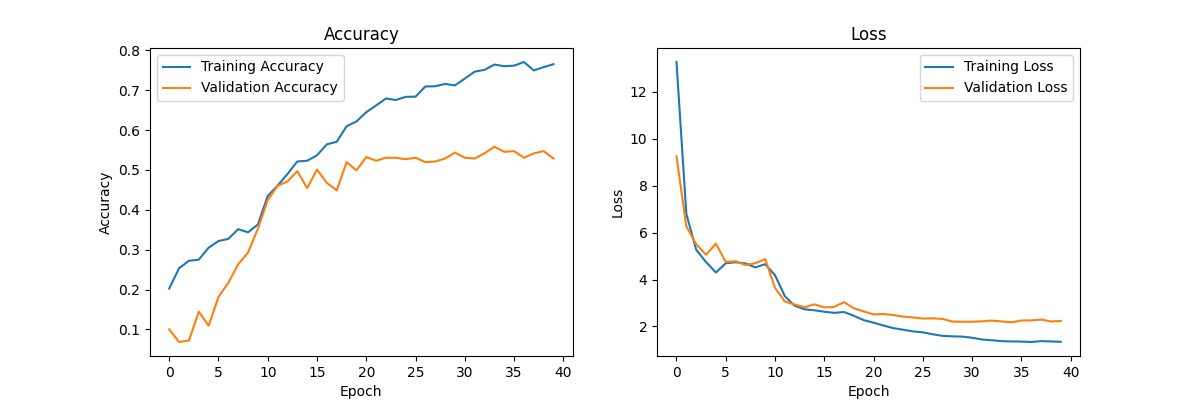
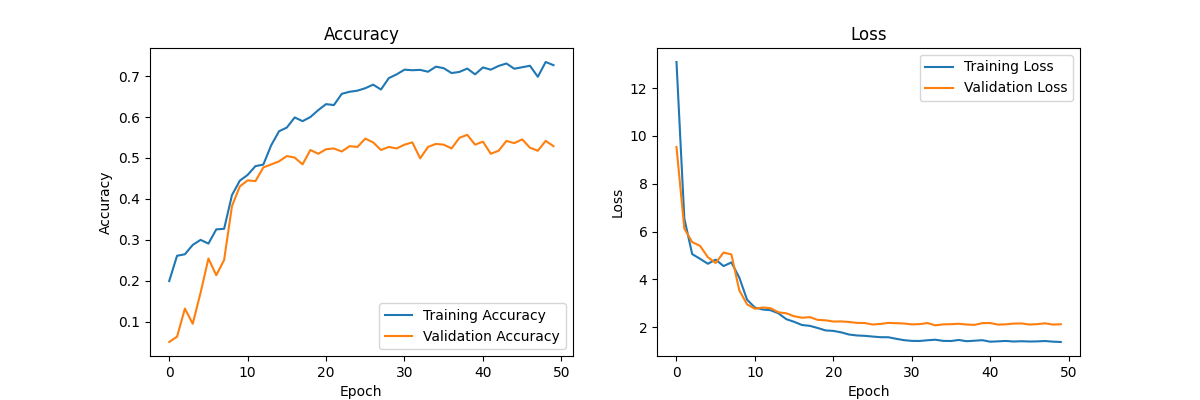
OK

diff --git a/scripts/Animal-Detector-model.py b/scripts/Animal-Detector-model.py
@@ -78,7 +78,7 @@ model.compile(
 # Enhanced callbacks
 early_stopping = EarlyStopping(
     monitor='val_loss',
-    patience=5,
+    patience=100,
     restore_best_weights=True,
     min_delta=0.001
 )
